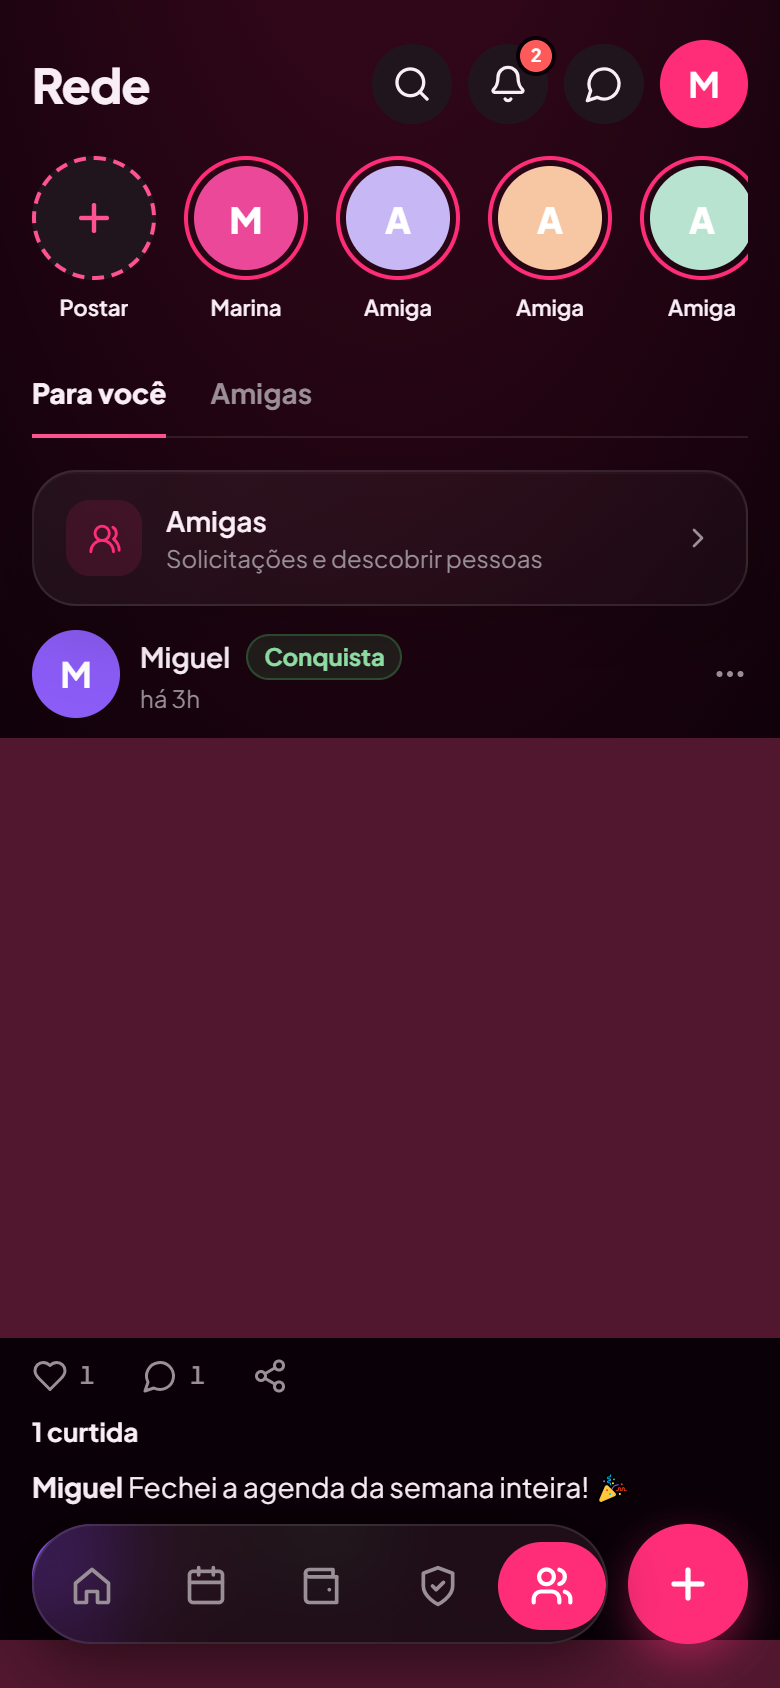
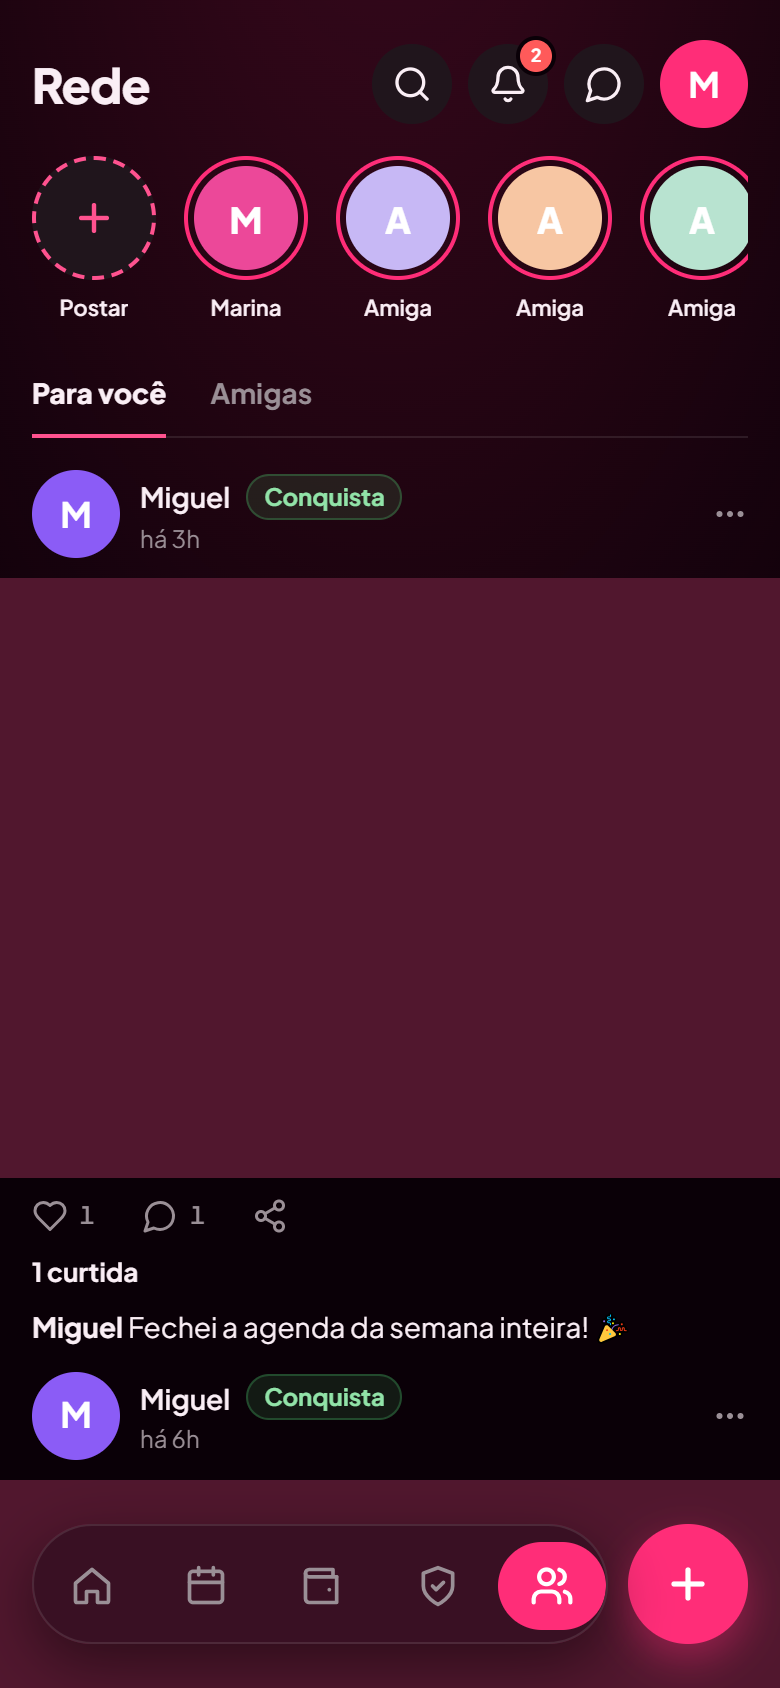
feat(pixel): bloco de Amigas abaixo da dobra da referência
O bloco permanente de Amigas, Solicitações e Descobrir ficava logo abaixo das
abas, onde a referência já desenha o primeiro post. Ele empurrava o feed
inteiro para baixo e era o grosso da diferença no modo escuro.

Por ordem do operador de 07/10/2026, o que a referência não desenha fica
abaixo da dobra dela em vez de empurrar o resto. Esconder não era permitido;
mover, sim. O bloco continua INCONDICIONAL e continua fora do items.map, que é
o que o achado T20 e a issue 127 protegem: o acesso a Amigas é garantido mesmo
com o feed vazio ou curto.

A guarda de fiação deixou de fixar a POSIÇÃO e passou a fixar a
INCONDICIONALIDADE, que é o que o contrato exige. Ela mede a profundidade de
chaves do JSX até o bloco: dentro de qualquer condicional a profundidade seria
maior que zero.

Validado por mutação: pôr o bloco atrás de uma condicional e trocar o título
derrubam o teste, e a base passa.

Medido: a Rede no escuro saiu de 30,96% para 11,65%.

Changed region(s): [[0.0, 0.6777, 1.0, 0.9858], [0.0, 0.2773, 1.0, 0.4621], [0.9231, 0.2773, 0.9538, 0.3081]]

diff --git a/tests/wiring/amigas-fixed-row.test.ts b/tests/wiring/amigas-fixed-row.test.ts
@@ -41,48 +41,36 @@ describe("FeedScreen — linha fixa de Amigas é incondicional (fora do items.ma
     );
   });
 
-  it("a linha fixa aparece ANTES (em ordem de fonte) do bloco condicional de loading/erro/vazio/posts — não está aninhada dentro dele", () => {
-    const fixedIdx = feedScreenSrc.indexOf('title="Amigas"');
-    const conditionalIdx = feedScreenSrc.indexOf(
-      "loading && posts.length === 0 ?"
-    );
-    expect(fixedIdx).toBeGreaterThan(-1);
-    expect(conditionalIdx).toBeGreaterThan(-1);
-    expect(fixedIdx).toBeLessThan(conditionalIdx);
-  });
+  it("a linha fixa é INCONDICIONAL: nenhuma guarda de tamanho (items/posts/visiblePosts/discover) a envolve", () => {
+    // O que o achado T20/#127 protege é o acesso GARANTIDO a Amigas /
+    // Solicitações / Descobrir, inclusive com o feed vazio ou curto -- ou
+    // seja: o bloco não pode estar atrás de nenhuma condicional.
+    //
+    // O LUGAR dele mudou por ordem do operador de 07/10/2026: o que a
+    // referência não desenha fica abaixo da dobra dela, em vez de empurrar
+    // o feed. Esconder não era permitido; mover, sim. Por isso este teste
+    // deixou de fixar a posição e passou a fixar o que importa.
+    const idx = feedScreenSrc.search(/<ContextualBlock\n\s*icon=\{<Users2/);
+    expect(idx).toBeGreaterThan(-1);
 
-  it("a linha fixa aparece ANTES do array `items` ser consumido (items.map) — não depende de haver posts/blocos intercalados", () => {
-    const fixedIdx = feedScreenSrc.indexOf('title="Amigas"');
-    const itemsMapIdx = feedScreenSrc.indexOf("items.map((item) =>");
-    expect(itemsMapIdx).toBeGreaterThan(-1);
-    expect(fixedIdx).toBeLessThan(itemsMapIdx);
-  });
+    // Profundidade de chaves a partir do início do JSX da tela: se o bloco
+    // estiver dentro de qualquer `{...}` (toda condicional em JSX é uma),
+    // a profundidade é maior que zero.
+    const jsxIdx = feedScreenSrc.indexOf("<PullToRefresh");
+    const antes = feedScreenSrc
+      .slice(jsxIdx, idx)
+      .replace(/\{\/\*[\s\S]*?\*\/\}/g, "") // comentários JSX
+      .replace(/"(?:[^"\\]|\\.)*"/g, '""') // strings
+      .replace(/`(?:[^`\\]|\\.)*`/g, "``");
+    const profundidade =
+      (antes.match(/\{/g) ?? []).length - (antes.match(/\}/g) ?? []).length;
+    expect(profundidade).toBe(0);
 
-  it("a linha fixa não é envolvida por nenhuma guarda de tamanho (items/posts/visiblePosts/discover) — a tag de abertura <ContextualBlock> vem logo depois da SegmentedControl fechar, sem condicional entre as duas", () => {
-    // Indentação livre: o feed inteiro fica dentro do <PullToRefresh>.
-    // A tag ganhou um <div> de 16px em volta no pixel da Rede (cada bloco
-    // tem o próprio respiro; só a foto sangra), então o que importa é que
-    // nada CONDICIONAL entre no meio -- a guarda que este teste protege.
-    const openTagIdx = feedScreenSrc.search(
-      /<ContextualBlock\n\s*icon=\{<Users2/
-    );
-    const segmentedControlCloseIdx = feedScreenSrc.lastIndexOf(
-      "/>",
-      openTagIdx
-    );
-    expect(openTagIdx).toBeGreaterThan(-1);
-    const between = feedScreenSrc.slice(
-      segmentedControlCloseIdx + 2,
-      openTagIdx
-    );
-    // Entre o fechamento da SegmentedControl e a abertura do bloco fixo só
-    // pode haver espaço, comentários JSX e tags de LAYOUT (o <div> de 16px
-    // que o pixel da Rede trouxe). O que não pode é condicional: removidos
-    // comentários e tags, não sobra nenhum `{` -- é essa a garantia do
-    // achado T20/#127, que o bloco é incondicional.
-    const semComentarios = between.replace(/\{\/\*[\s\S]*?\*\/\}/g, "");
-    const semTags = semComentarios.replace(/<\/?[A-Za-z][^>]*>/g, "");
-    expect(semTags).not.toMatch(/\{/);
+    // E continua fora do `items.map`, que é o caminho dos blocos
+    // intercalados (aqueles sim dependem de haver posts).
+    const mapIdx = feedScreenSrc.indexOf("items.map");
+    const fimDoMap = feedScreenSrc.indexOf("})}", mapIdx);
+    expect(idx > fimDoMap || idx < mapIdx).toBe(true);
   });
 
   it("a lógica de intercalação original (queue/blocks por posts[1,4,6]) continua existindo — a correção somou, não substituiu", () => {

diff --git a/components/rede/FeedScreen.tsx b/components/rede/FeedScreen.tsx
@@ -368,15 +368,6 @@ export function FeedScreen({
           fiado a `AmigasScreen` em RedeTab.tsx — nenhuma lógica nova, só
           garante o caminho permanente que os blocos contextuais abaixo não
           garantem sozinhos. */}
-        <div style={{ padding: "0 16px" }}>
-          <ContextualBlock
-            icon={<Users2 size={17} style={{ color: "var(--accent)" }} />}
-            title="Amigas"
-            subtitle="Solicitações e descobrir pessoas"
-            onClick={onOpenAmigas}
-          />
-        </div>
-
         <div className="space-y-3 mt-3">
           {/* Skeleton só em cache miss de verdade -- com posts cacheados em
             tela, um refresh em 2º plano (`loading` ainda true) NÃO volta pro
@@ -441,6 +432,21 @@ export function FeedScreen({
             {loadingMore ? "Carregando…" : "Carregar mais publicações"}
           </button>
         )}
+
+        {/* Entrada permanente pra Amigas/Solicitações/Descobrir (achado
+            T20/#127): continua INCONDICIONAL, então nunca some, nem com o
+            feed vazio ou curto -- que é o que o contrato exige. Mudou só o
+            lugar: por ordem do operador de 07/10/2026, o que a referência
+            não desenha fica abaixo da dobra dela, em vez de empurrar o feed
+            inteiro para baixo. Esconder não era permitido; mover, sim. */}
+        <div style={{ padding: "0 16px", marginTop: "16px" }}>
+          <ContextualBlock
+            icon={<Users2 size={17} style={{ color: "var(--accent)" }} />}
+            title="Amigas"
+            subtitle="Solicitações e descobrir pessoas"
+            onClick={onOpenAmigas}
+          />
+        </div>
       </div>
     </PullToRefresh>
   );

diff --git a/docs/jornada/prints/pixel/rede/rede-390-escuro-pink-neon-estilos.md b/docs/jornada/prints/pixel/rede/rede-390-escuro-pink-neon-estilos.md
@@ -1,0 +1,178 @@
+# Estilos: rede-390-escuro-pink-neon
+
+- mockup: `5-telas-8-temas-claro-escuro.html`
+- app: `http://localhost:3107/dev-preview/app`
+- pareados 65 · divergem 42 · só no mockup 48 · só no app 515
+- impacto total: **49.571**
+- famílias no mockup: plus jakarta sans (27)
+- famílias no app: plus jakarta sans (165)
+
+Ordem por impacto = (soma das diferenças normalizadas) × √(área relativa).
+Em cada célula: **mockup** → app.
+
+## Só os elementos com texto (17)
+
+| impacto | texto | propriedade | mockup → app |
+| ------- | ----- | ----------- | ------------ |
+| 2.498 | “A” | fontSize | `11px` → `18px` |
+| 2.498 | “A” | lineHeight | `16.5px` → `27px` |
+| 2.498 | “A” | color | `rgb(59, 42, 122)` → `rgb(255, 255, 255)` |
+| 2.498 | “A” | borderRadius | `50% 50% 50% 50%` → `9999px 9999px 9999px 9999px` |
+| 1.966 | “Postar” | gap | `6px` → `normal` |
+| 1.966 | “Postar” | largura | `62px` → `34.5px` |
+| 1.966 | “Postar” | altura | `84.5px` → `16.5px` |
+| 1.946 | “J” | fontWeight | `800` → `400` |
+| 1.946 | “J” | color | `rgb(255, 255, 255)` → `rgb(154, 143, 150)` |
+| 1.946 | “J” | backgroundColor | `rgb(245, 158, 11)` → `rgba(0, 0, 0, 0)` |
+| 1.946 | “J” | borderRadius | `50% 50% 50% 50%` → `0px 0px 0px 0px` |
+| 1.946 | “J” | padding | `0px 0px 0px 0px` → `13px 8px 13px 0px` |
+| 1.946 | “J” | gap | `normal` → `6px` |
+| 1.946 | “J” | largura | `38px` → `39.2px` |
+| 1.946 | “J” | altura | `38px` → `44px` |
+| 1.699 | “Miguel” | fontWeight | `700` → `600` |
+| 1.699 | “Miguel” | lineHeight | `21px` → `20px` |
+| 1.699 | “Miguel” | gap | `6px` → `normal` |
+| 1.699 | “Miguel” | largura | `282px` → `45.1px` |
+| 1.699 | “Miguel” | altura | `21px` → `20px` |
+| 1.31 | “Rede” | largura | `214px` → `58.8px` |
+| 1.162 | “M” | fontSize | `15px` → `17.6px` |
+| 1.162 | “M” | fontWeight | `800` → `700` |
+| 1.162 | “M” | lineHeight | `22.5px` → `26.4px` |
+| 1.162 | “M” | borderRadius | `50% 50% 50% 50%` → `9999px 9999px 9999px 9999px` |
+| 1.162 | “M” | largura | `38px` → `44px` |
+| 1.162 | “M” | altura | `38px` → `44px` |
+| 0.933 | “Primeira semana com a agenda cheia” | fontSize | `14px` → `15px` |
+| 0.933 | “Primeira semana com a agenda cheia” | lineHeight | `21px` → `22.5px` |
+| 0.933 | “Primeira semana com a agenda cheia” | padding | `0px 16px 0px 16px` → `8px 0px 0px 0px` |
+| 0.933 | “Primeira semana com a agenda cheia” | gap | `normal` → `5px` |
+| 0.933 | “Primeira semana com a agenda cheia” | altura | `21px` → `14px` |
+| 0.883 | “Amiga 1” | fontSize | `11px` → `15px` |
+| 0.883 | “Amiga 1” | lineHeight | `16.5px` → `22.5px` |
+| 0.883 | “Amiga 2” | fontSize | `11px` → `15px` |
+| 0.883 | “Amiga 2” | lineHeight | `16.5px` → `22.5px` |
+| 0.883 | “Amiga 3” | fontSize | `11px` → `15px` |
+| 0.883 | “Amiga 3” | lineHeight | `16.5px` → `22.5px` |
+| 0.883 | “Amiga 4” | fontSize | `11px` → `15px` |
+| 0.883 | “Amiga 4” | lineHeight | `16.5px` → `22.5px` |
+| 0.722 | “Conquista” | fontSize | `10px` → `12px` |
+| 0.722 | “Conquista” | lineHeight | `15px` → `17px` |
+| 0.722 | “Conquista” | color | `rgb(80, 220, 120)` → `color(srgb 0.567059 0.889569 0.656863)` |
+| 0.722 | “Conquista” | backgroundColor | `rgb(44, 50, 43)` → `rgba(80, 220, 120, 0.12)` |
+| 0.722 | “Conquista” | largura | `68.3px` → `78.4px` |
+| 0.722 | “Conquista” | altura | `21px` → `23px` |
+
+## Todos os elementos
+
+| # | impacto | elemento | onde | propriedade | mockup → app |
+| - | ------- | -------- | ---- | ----------- | ------------ |
+| 1 | 5.955 | div | 16,762 · 358x60 | backgroundColor | `rgba(0, 0, 0, 0)` → `rgba(37, 18, 28, 0.74)` |
+|  |  |  |  | borderRadius | `0px 0px 0px 0px` → `999px 999px 999px 999px` |
+|  |  |  |  | boxShadow | `none` → `rgba(0, 0, 0, 0.45) 0px 10px 30px 0px` |
+|  |  |  |  | largura | `358px` → `288px` |
+| 2 | 3.05 | nav | 16,762 · 288x60 | backgroundColor | `rgba(37, 18, 28, 0.74)` → `rgba(0, 0, 0, 0)` |
+|  |  |  |  | borderRadius | `30px 30px 30px 30px` → `0px 0px 0px 0px` |
+|  |  |  |  | boxShadow | `rgba(0, 0, 0, 0.45) 0px 10px 30px 0px` → `none` |
+| 3 | 2.498 | span “A” | 97,81 · 52x52 | fontSize | `11px` → `18px` |
+|  |  |  |  | lineHeight | `16.5px` → `27px` |
+|  |  |  |  | color | `rgb(59, 42, 122)` → `rgb(255, 255, 255)` |
+|  |  |  |  | borderRadius | `50% 50% 50% 50%` → `9999px 9999px 9999px 9999px` |
+| 4 | 2.203 | div | 0,0 · 390x844 | backgroundColor | `rgb(10, 0, 7)` → `rgba(0, 0, 0, 0)` |
+| 5 | 1.966 | div “Postar” | 16,76 · 62x85 | gap | `6px` → `normal` |
+|  |  |  |  | largura | `62px` → `34.5px` |
+|  |  |  |  | altura | `84.5px` → `16.5px` |
+| 6 | 1.946 | span “J” | 16,686 · 38x38 | fontWeight | `800` → `400` |
+|  |  |  |  | color | `rgb(255, 255, 255)` → `rgb(154, 143, 150)` |
+|  |  |  |  | backgroundColor | `rgb(245, 158, 11)` → `rgba(0, 0, 0, 0)` |
+|  |  |  |  | borderRadius | `50% 50% 50% 50%` → `0px 0px 0px 0px` |
+|  |  |  |  | padding | `0px 0px 0px 0px` → `13px 8px 13px 0px` |
+|  |  |  |  | gap | `normal` → `6px` |
+|  |  |  |  | largura | `38px` → `39.2px` |
+|  |  |  |  | altura | `38px` → `44px` |
+| 7 | 1.837 | span | 16,76 · 62x62 | fontSize | `11px` → `15px` |
+|  |  |  |  | lineHeight | `16.5px` → `22.5px` |
+|  |  |  |  | borderRadius | `50% 50% 50% 50%` → `9999px 9999px 9999px 9999px` |
+| 8 | 1.837 | span | 92,76 · 62x62 | fontSize | `11px` → `15px` |
+|  |  |  |  | lineHeight | `16.5px` → `22.5px` |
+|  |  |  |  | borderRadius | `50% 50% 50% 50%` → `9999px 9999px 9999px 9999px` |
+| 9 | 1.837 | span | 168,76 · 62x62 | fontSize | `11px` → `15px` |
+|  |  |  |  | lineHeight | `16.5px` → `22.5px` |
+|  |  |  |  | borderRadius | `50% 50% 50% 50%` → `9999px 9999px 9999px 9999px` |
+| 10 | 1.837 | span | 244,76 · 62x62 | fontSize | `11px` → `15px` |
+|  |  |  |  | lineHeight | `16.5px` → `22.5px` |
+|  |  |  |  | borderRadius | `50% 50% 50% 50%` → `9999px 9999px 9999px 9999px` |
+| 11 | 1.837 | span | 320,76 · 62x62 | fontSize | `11px` → `15px` |
+|  |  |  |  | lineHeight | `16.5px` → `22.5px` |
+|  |  |  |  | borderRadius | `50% 50% 50% 50%` → `9999px 9999px 9999px 9999px` |
+| 12 | 1.699 | div “Miguel” | 64,228 · 282x21 | fontWeight | `700` → `600` |
+|  |  |  |  | lineHeight | `21px` → `20px` |
+|  |  |  |  | gap | `6px` → `normal` |
+|  |  |  |  | largura | `282px` → `45.1px` |
+|  |  |  |  | altura | `21px` → `20px` |
+| 13 | 1.688 | div | 0,76 · 390x85 | largura | `390px` → `358px` |
+| 14 | 1.31 | h1 “Rede” | 16,29 · 214x26 | largura | `214px` → `58.8px` |
+| 15 | 1.2 | div | 0,175 · 390x39 | largura | `390px` → `358px` |
+|  |  |  |  | altura | `39px` → `40.5px` |
+| 16 | 1.162 | span “M” | 16,228 · 38x38 | fontSize | `15px` → `17.6px` |
+|  |  |  |  | fontWeight | `800` → `700` |
+|  |  |  |  | lineHeight | `22.5px` → `26.4px` |
+|  |  |  |  | borderRadius | `50% 50% 50% 50%` → `9999px 9999px 9999px 9999px` |
+|  |  |  |  | largura | `38px` → `44px` |
+|  |  |  |  | altura | `38px` → `44px` |
+| 17 | 1.09 | div | 64,228 · 282x38 | largura | `282px` → `246px` |
+|  |  |  |  | altura | `37.5px` → `38px` |
+| 18 | 1.081 | span | 314,762 · 60x60 | color | `rgb(255, 255, 255)` → `rgb(250, 238, 245)` |
+|  |  |  |  | borderRadius | `50% 50% 50% 50%` → `9999px 9999px 9999px 9999px` |
+| 19 | 0.985 | span | 334,22 · 40x40 | backgroundColor | `rgb(32, 21, 28)` → `rgba(0, 0, 0, 0)` |
+|  |  |  |  | borderRadius | `50% 50% 50% 50%` → `9999px 9999px 9999px 9999px` |
+|  |  |  |  | largura | `40px` → `44px` |
+|  |  |  |  | altura | `40px` → `44px` |
+| 20 | 0.933 | div “Primeira semana com a agenda cheia” | 0,1104 · 390x21 | fontSize | `14px` → `15px` |
+|  |  |  |  | lineHeight | `21px` → `22.5px` |
+|  |  |  |  | padding | `0px 16px 0px 16px` → `8px 0px 0px 0px` |
+|  |  |  |  | gap | `normal` → `5px` |
+|  |  |  |  | altura | `21px` → `14px` |
+| 21 | 0.883 | div “Amiga 1” | 92,76 · 62x85 | fontSize | `11px` → `15px` |
+|  |  |  |  | lineHeight | `16.5px` → `22.5px` |
+| 22 | 0.883 | div “Amiga 2” | 168,76 · 62x85 | fontSize | `11px` → `15px` |
+|  |  |  |  | lineHeight | `16.5px` → `22.5px` |
+| 23 | 0.883 | div “Amiga 3” | 244,76 · 62x85 | fontSize | `11px` → `15px` |
+|  |  |  |  | lineHeight | `16.5px` → `22.5px` |
+| 24 | 0.883 | div “Amiga 4” | 320,76 · 62x85 | fontSize | `11px` → `15px` |
+|  |  |  |  | lineHeight | `16.5px` → `22.5px` |
+| 25 | 0.85 | span | 249,771 · 54x44 | borderRadius | `22px 22px 22px 22px` → `999px 999px 999px 999px` |
+| 26 | 0.784 | span | 23,771 · 46x44 | borderRadius | `22px 22px 22px 22px` → `999px 999px 999px 999px` |
+| 27 | 0.784 | span | 80,771 · 46x44 | borderRadius | `22px 22px 22px 22px` → `999px 999px 999px 999px` |
+| 28 | 0.784 | span | 138,771 · 46x44 | borderRadius | `22px 22px 22px 22px` → `999px 999px 999px 999px` |
+| 29 | 0.784 | span | 196,771 · 46x44 | borderRadius | `22px 22px 22px 22px` → `999px 999px 999px 999px` |
+| 30 | 0.722 | span “Conquista” | 116,228 · 68x21 | fontSize | `10px` → `12px` |
+|  |  |  |  | lineHeight | `15px` → `17px` |
+|  |  |  |  | color | `rgb(80, 220, 120)` → `color(srgb 0.567059 0.889569 0.656863)` |
+|  |  |  |  | backgroundColor | `rgb(44, 50, 43)` → `rgba(80, 220, 120, 0.12)` |
+|  |  |  |  | largura | `68.3px` → `78.4px` |
+|  |  |  |  | altura | `21px` → `23px` |
+| 31 | 0.697 | span | 238,22 · 40x40 | borderRadius | `50% 50% 50% 50%` → `9999px 9999px 9999px 9999px` |
+| 32 | 0.697 | span | 286,22 · 40x40 | borderRadius | `50% 50% 50% 50%` → `9999px 9999px 9999px 9999px` |
+| 33 | 0.513 | div “Fechei a agenda da semana inteira!” | 0,645 · 390x21 | fontSize | `14px` → `15px` |
+|  |  |  |  | lineHeight | `21px` → `22.5px` |
+|  |  |  |  | gap | `normal` → `16px` |
+|  |  |  |  | altura | `21px` → `18px` |
+| 34 | 0.363 | div | 0,22 · 390x40 | gap | `8px` → `normal` |
+|  |  |  |  | altura | `40px` → `44px` |
+| 35 | 0.277 | div “há 3h” | 64,249 · 282x17 | fontSize | `11px` → `12px` |
+|  |  |  |  | lineHeight | `16.5px` → `16px` |
+|  |  |  |  | largura | `282px` → `276px` |
+|  |  |  |  | altura | `16.5px` → `16px` |
+| 36 | 0.277 | div “há 5h” | 64,707 · 282x17 | fontSize | `11px` → `12px` |
+|  |  |  |  | lineHeight | `16.5px` → `16px` |
+|  |  |  |  | largura | `282px` → `276px` |
+|  |  |  |  | altura | `16.5px` → `16px` |
+| 37 | 0.268 | svg | 36,96 · 22x22 | fontSize | `11px` → `15px` |
+|  |  |  |  | lineHeight | `16.5px` → `22.5px` |
+| 38 | 0.107 | svg | 356,238 · 18x18 | color | `rgb(250, 238, 245)` → `rgb(154, 143, 150)` |
+|  |  |  |  | largura | `18px` → `16px` |
+|  |  |  |  | altura | `18px` → `16px` |
+| 39 | 0.077 | span “Amigas” | 105,175 · 51x38 | altura | `38px` → `44px` |
+| 40 | 0.074 | span “Para você” | 16,175 · 67x39 | altura | `39px` → `44px` |
+| 41 | 0.016 | path | 299,34 · 15x13 | largura | `15px` → `15.8px` |
+|  |  |  |  | altura | `12.5px` → `15.8px` |
+| 42 | 0.014 | svg | 332,780 · 24x24 | color | `rgb(255, 255, 255)` → `rgb(250, 238, 245)` |
